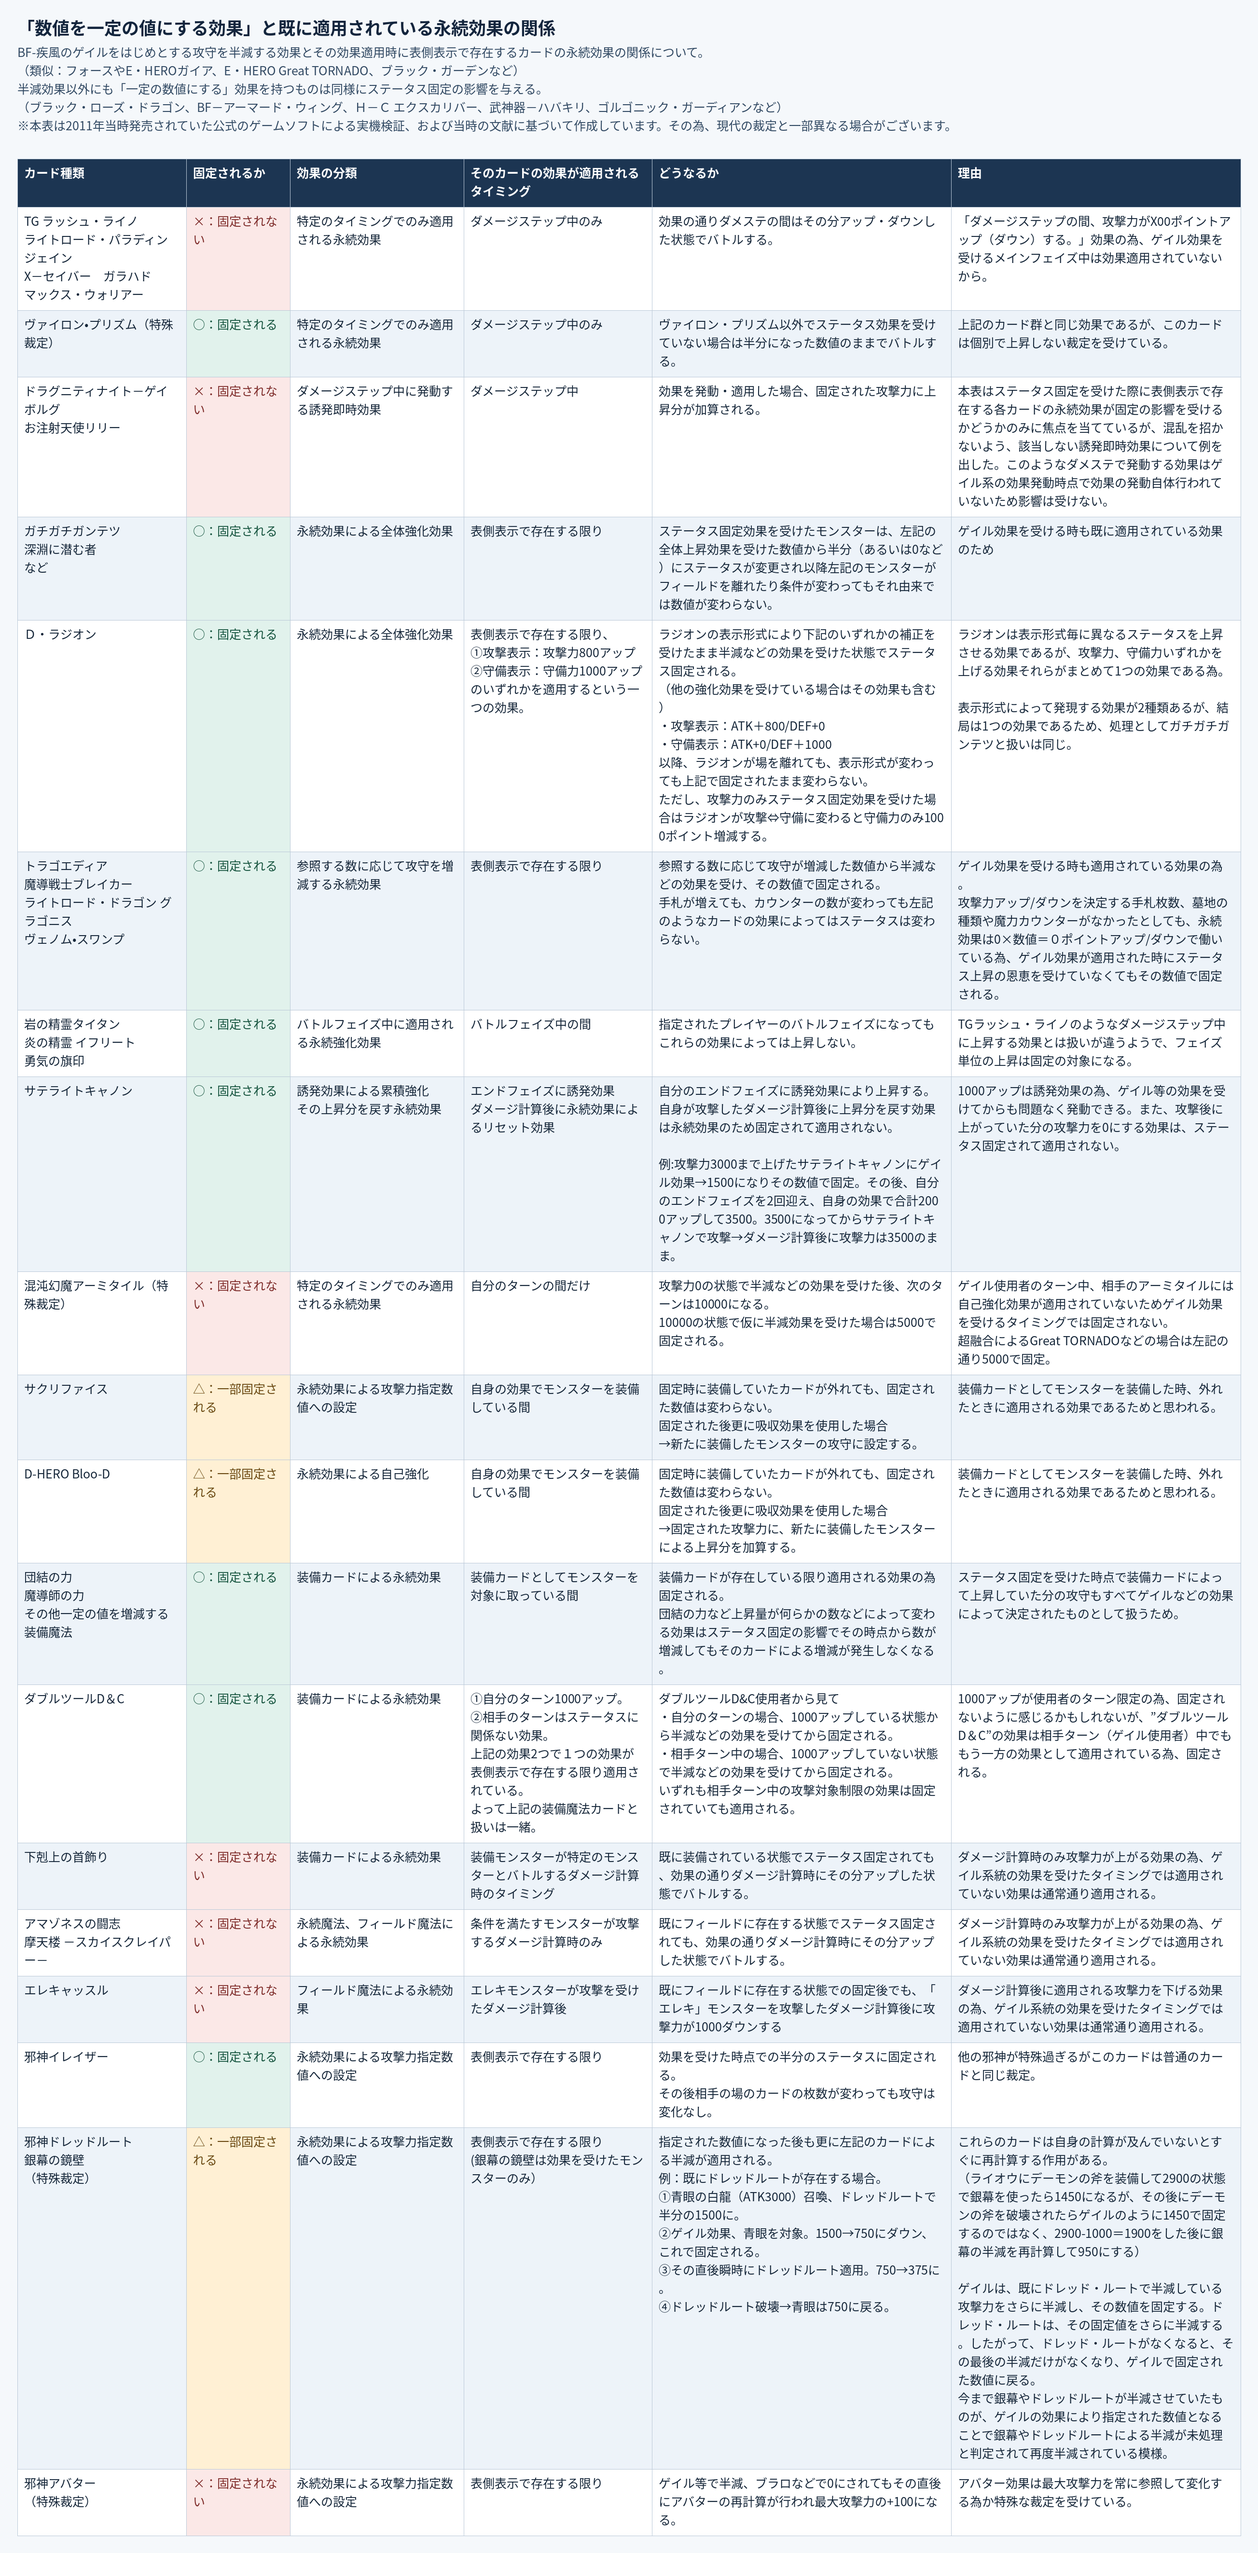
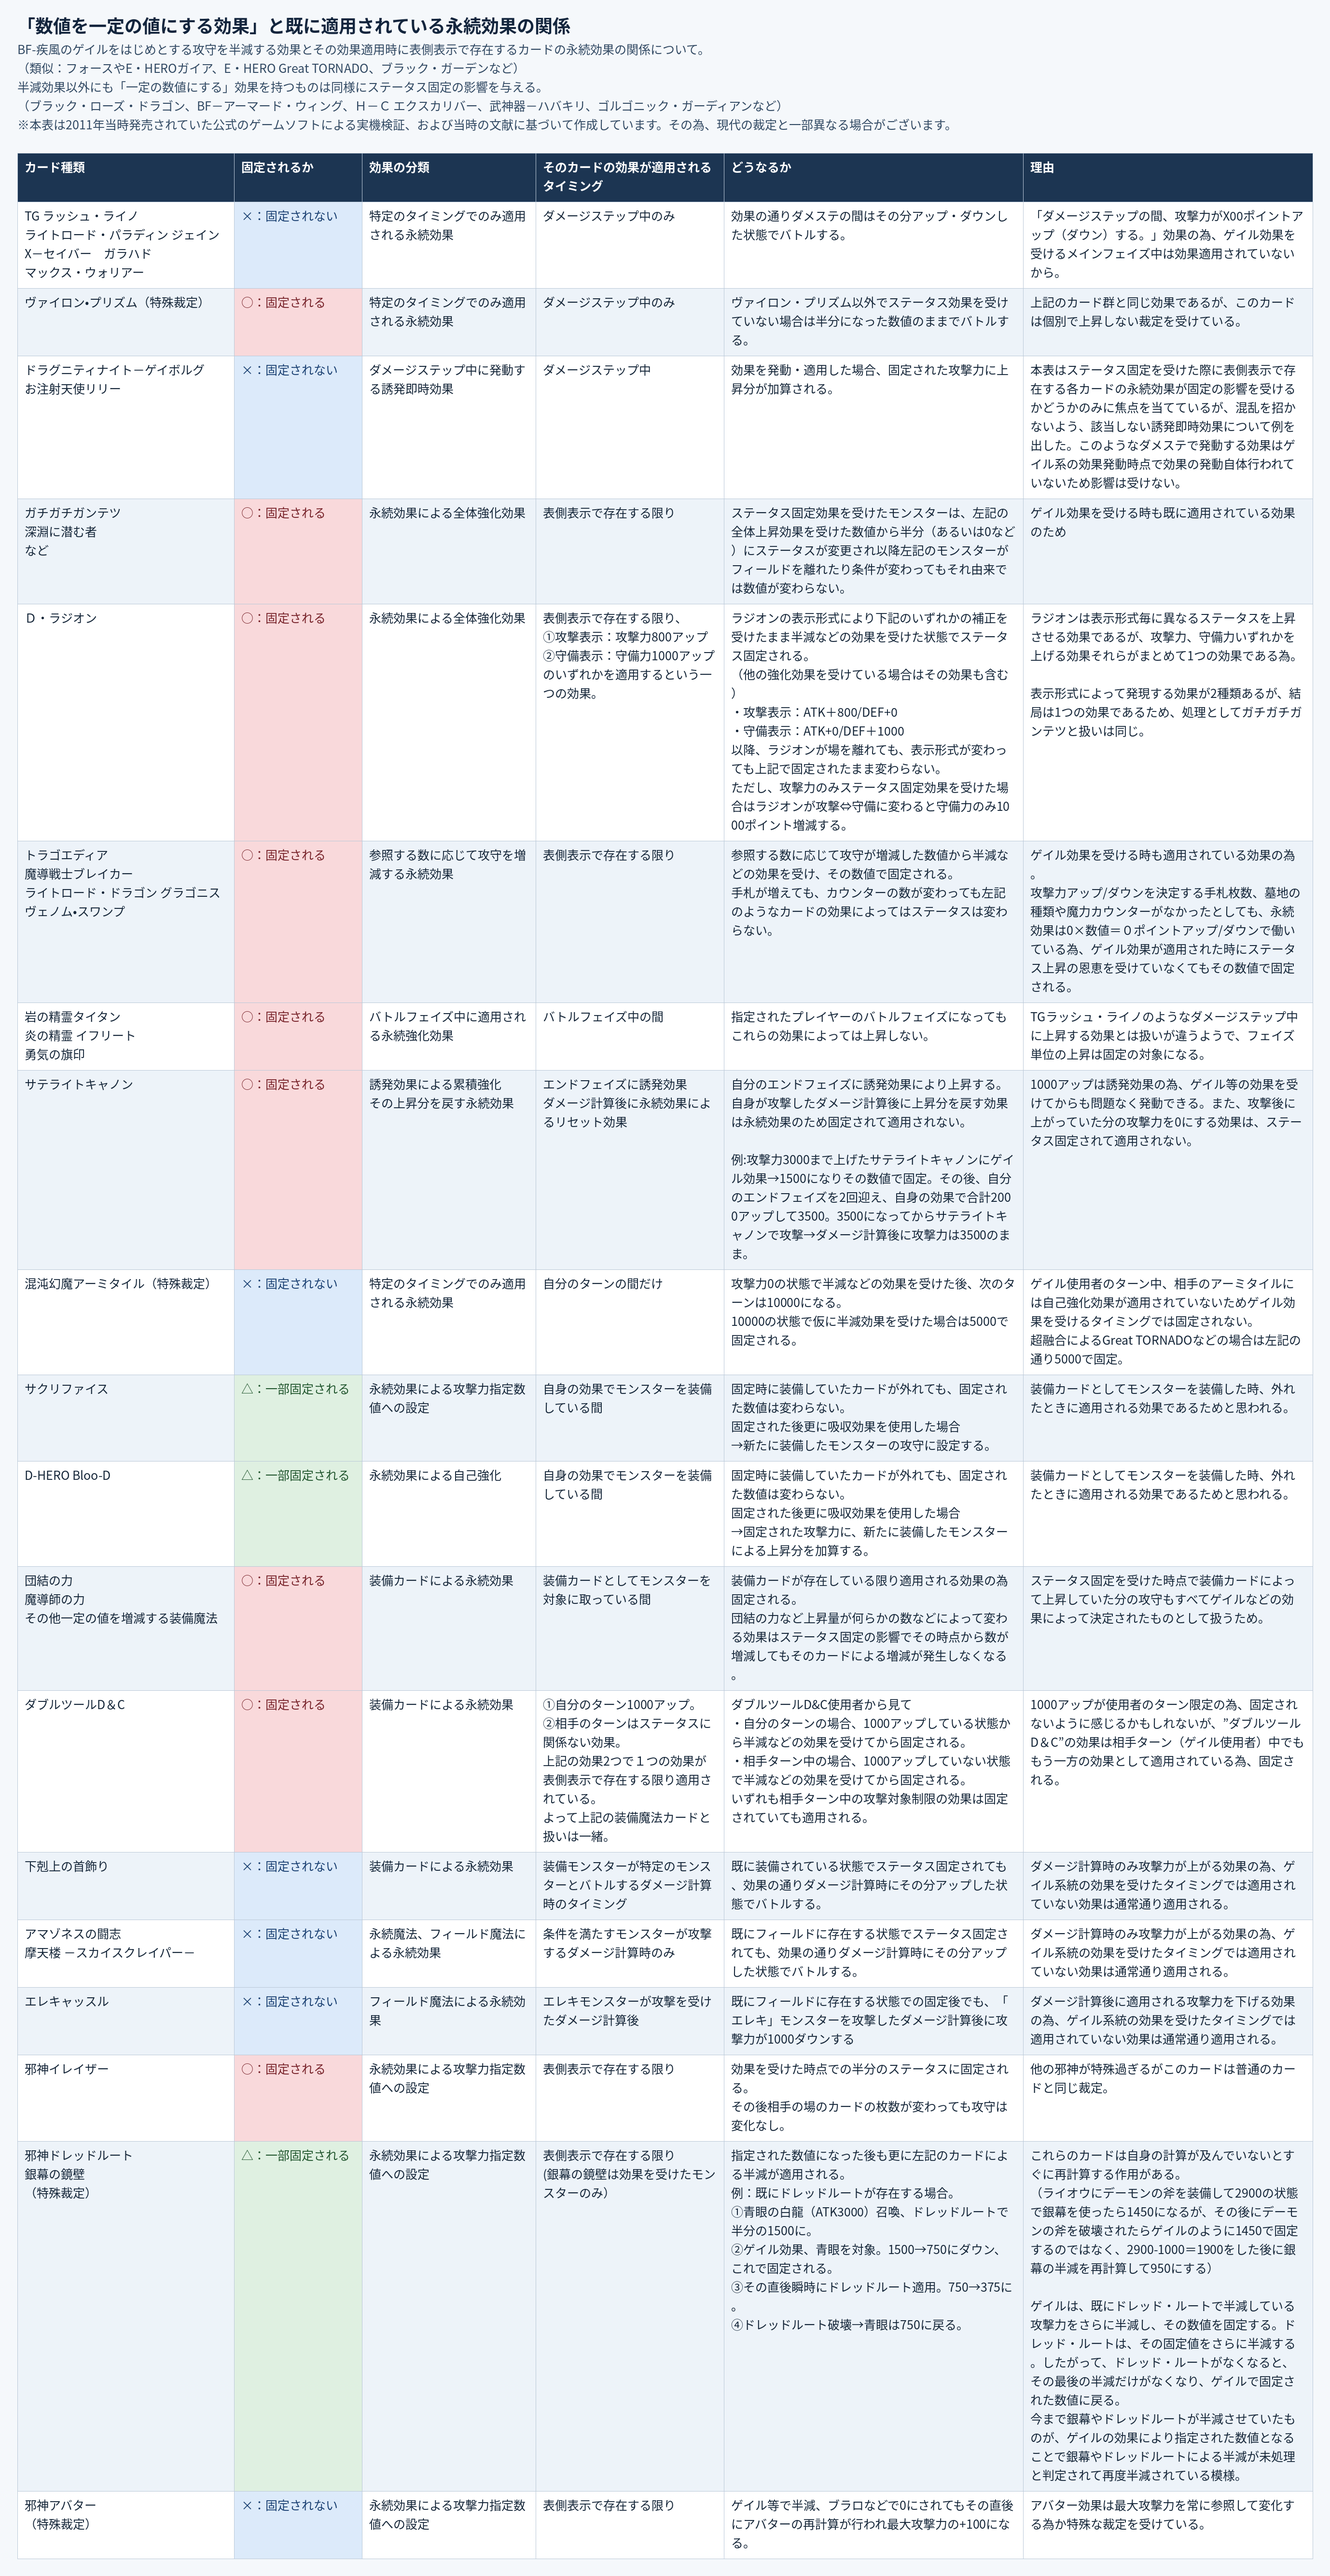
収縮ゲイル表修正

diff --git a/rulings-wind-decree-merrow-20261114.js b/rulings-wind-decree-merrow-20261114.js
@@ -153,7 +153,7 @@
   },
   {
     "question": "このカードが《ボルテック・バイコーン》や《ＴＧ ワンダー・マジシャン》を戦闘で破壊し、効果でエクストラデッキに戻した場合、それらの効果は発動しますか？",
-    "answer": "はい、どちらも発動します。[DS表⑥ダメージステップ終了時]にエクストラデッキへ戻った後、《ボルテック・バイコーン》は相手によって破壊された場合の効果を、《ＴＧ ワンダー・マジシャン》はフィールド上で破壊された時のドロー効果を発動します。\n\n[[補足:採用する裁定の根拠]]\n■2012年9月の裁定記録とTF6での検証\n2012年9月のWikiの裁定記録では、《ボルテック・バイコーン》は、このカードに戦闘で破壊されてエクストラデッキに戻った場合も効果を発動します。また、TF6で《ＴＧ ワンダー・マジシャン》を同じ手順でエクストラデッキに戻したところ、ドロー効果が発動することを確認しました。本サイトでは、この裁定記録とTF6での検証結果を根拠に、どちらも発動する扱いを採用します。\n\n■戻る先による扱いの違い\n非公開領域でも、メインデッキと手札では効果の発動の扱いが異なります。自分フィールドに表側表示で存在する状態から離れた時に発動できる《マインフィールド》の任意の誘発効果は、手札に戻った場合は発動できますが、メインデッキに戻った場合は発動できません。《Ｅ・ＨＥＲＯ アブソルートＺｅｒｏ》のフィールドから離れた時の効果は、2020年4月のルール改訂前はエクストラデッキに戻った場合も発動しました。これらの例から、効果の発動に関して、改訂前のエクストラデッキは手札と同様に扱われていたと推測しています。\n\n■2020年4月のルール改訂との関係\n2020年4月の改訂後は、テキストに例外があるものを除き、メインデッキや裏側表示のエクストラデッキに戻ったカードの効果は、強制効果でも発動しません。公式告知では、「フィールドから離れた時」に発動する効果が変更例として挙げられています。現行ルールでは、この2枚もエクストラデッキに戻った場合は発動しません。\n\nこの2枚の「破壊されたこと」を発動条件とする効果も、「フィールドから離れた時」に発動する効果と同じく、2020年4月のルール改訂で扱いが変わったと考えられます。ただし、個別の裁定が変更された時期は確認されていません。\n\n■「破壊された場合」と「破壊された時」\n《ボルテック・バイコーン》は「相手によって破壊された場合」、《ＴＧ ワンダー・マジシャン》の旧テキストは「フィールド上に存在するこのカードが破壊された時」と書かれています。どちらも強制の誘発効果です。この場面で「場合」と「時」の違いによって処理が分かれる裁定は確認できず、裁定記録とTF6の検証結果はいずれも発動する扱いで一致しています。\n[[/補足]]\n\n※この裁定は難解なルールを含むため、大会当日のジャッジの判断を優先してください。",
+    "answer": "はい、どちらも発動します。[DS表⑥ダメージステップ終了時]にエクストラデッキへ戻った後、《ボルテック・バイコーン》は相手によって破壊された場合の効果を、《ＴＧ ワンダー・マジシャン》はフィールド上で破壊された時のドロー効果を発動します。\n\n[[補足:採用する裁定の根拠]]\n■2012年9月の裁定記録とTF6での検証\n2012年9月のWikiの裁定記録では、《ボルテック・バイコーン》は、このカードに戦闘で破壊されてエクストラデッキに戻った場合も効果を発動します。また、TF6で《ＴＧ ワンダー・マジシャン》を同じ手順でエクストラデッキに戻したところ、ドロー効果が発動することを確認しました。本サイトでは、この裁定記録とTF6での検証結果を根拠に、どちらも発動する扱いを採用します。\n\n■戻る先による扱いの違い\n非公開領域でも、メインデッキと手札では効果の発動の扱いが異なります。自分フィールドに表側表示で存在する状態から離れた時に発動できる《マインフィールド》の任意の誘発効果は、手札に戻った場合は発動できますが、メインデッキに戻った場合は発動できません。《Ｅ・ＨＥＲＯ アブソルートＺｅｒｏ》のフィールドから離れた時の効果は、2020年4月のルール改訂前はエクストラデッキに戻った場合も発動しました。これらの例から、効果の発動に関して、改訂前のエクストラデッキは手札と同様に扱われていたと推測しています。\n\n■2020年4月のルール改訂との関係\n2020年4月の改訂後は、テキストに例外があるものを除き、メインデッキや裏側表示のエクストラデッキに戻ったカードの効果は、強制効果でも発動しません。公式告知では、「フィールドから離れた時」に発動する効果が変更例として挙げられています。現行ルールでは、「破壊された」を条件とするこの2枚もエクストラデッキに戻った場合は発動しません。\n\nこの2枚の「破壊されたこと」を発動条件とする効果も、「フィールドから離れた時」に発動する効果と同じく、2020年4月のルール改訂で扱いが変わったと考えられます。ただし、個別の裁定が変更された時期は確認されていません。\n\n■「破壊された場合」と「破壊された時」\n《ボルテック・バイコーン》は「相手によって破壊された場合」、《ＴＧ ワンダー・マジシャン》の旧テキストは「フィールド上に存在するこのカードが破壊された時」と書かれています。どちらも強制の誘発効果です。この場面で「場合」と「時」の違いによって処理が分かれる裁定は確認できず、裁定記録とTF6の検証結果はいずれも発動する扱いで一致しています。\n[[/補足]]\n\n※この裁定は難解なルールを含むため、大会当日のジャッジの判断を優先してください。",
     "environments": [
       "1103"
     ],

diff --git a/sw.js b/sw.js
@@ -1,4 +1,4 @@
-const CACHE_NAME = "rulings-1103-v237";
+const CACHE_NAME = "rulings-1103-v238";
 const ASSETS = [
   "./rulings-gale-shrink-stat-fixing-20261121.js",
   "./blackwing-gale-1103.png",
